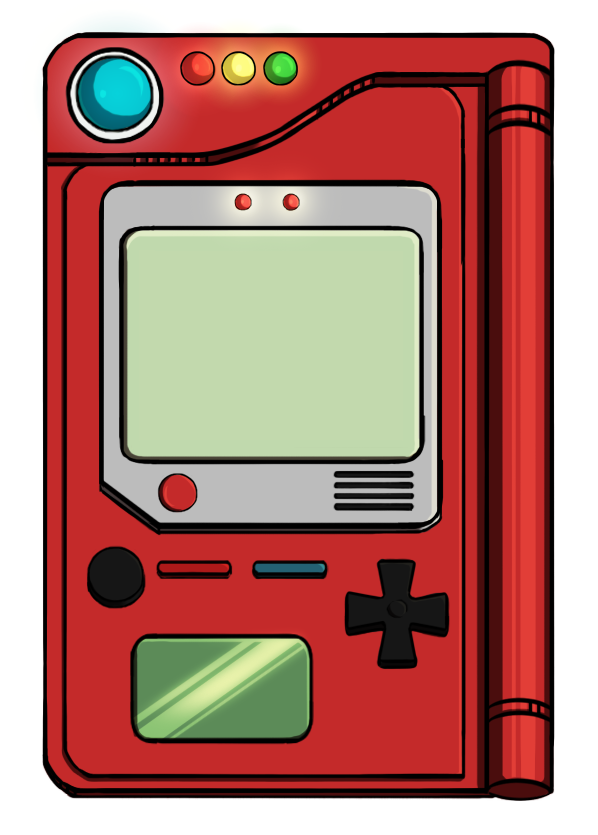
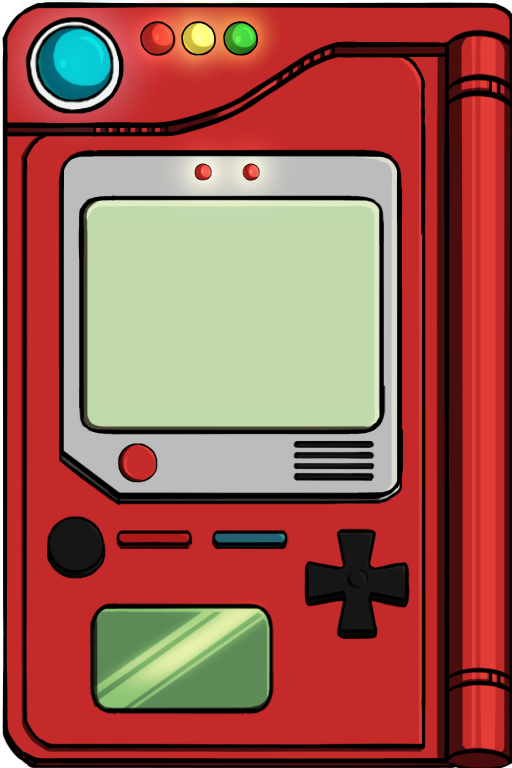
Correção de bugs

diff --git a/src/pages/View/index.js b/src/pages/View/index.js
@@ -4,6 +4,8 @@ import styles from './index.module.css';
 import api from "../../services/api";
 import Logo from "../../components/Logo";
 import PokedexImage from "../../components/PokedexImage";
+import Footer from "../../components/Footer";
+import Loading from "../../components/Loader";
 
 export default function View(){
     
@@ -11,16 +13,22 @@ export default function View(){
     const [data, setData] = useState([]);
     const {name} = useParams();
     const [isFlipped, setIsFlipped] = useState(false);
-
+    const [whosThatPokemon, setWhosThatPokemon] = useState("./missingno.png");
+    const [removeLoading, setRemoveLoading] = useState(false);
     
     useEffect(() => {
         const fetchData = async () => {
           const response = await api.get(`/pokemon/${name}`);
           const data = response.data;
           setData(data);
+          setRemoveLoading(true);
       
           if (data && data.sprites) {
-            setImageUrl(data.sprites.front_default);
+            if(data.sprites.front_default){
+              setImageUrl(data.sprites.front_default);
+            }else{
+              setWhosThatPokemon("/missingno.png");
+            }    
           }
         }
       
@@ -46,38 +54,50 @@ export default function View(){
         <div className={styles.mainDiv}>
           <div className={styles.imageContainer}>
             <img className={styles.pokedexImg} src={"/imgPoke.png"} alt="pokedex image" />
-            <img className={styles.innerImage} src={imageUrl} alt={`${data.name} sprite`} />
+            {!removeLoading && <Loading/>}           
+            {imageUrl ? (
+              <img className={styles.innerImage} src={imageUrl} alt={data.name} />
+            ) : (
+              <img  className={styles.innerImageWho} src={whosThatPokemon} alt={""}/>
+            )}
+            
+
             <div>
             <button className={styles.btnVoltar} onClick={(e) => changePhoto()}>Turn Image Here</button>
             </div>
           </div>
           <div className={styles.infoContainer}>
-              <p><strong> Name: </strong>{data.name}</p>
-              <p><strong> Height: </strong>{data.height*2.54} CM</p>
-              <p><strong> Weight: </strong> {(data.weight/2.205).toFixed(2)} KG</p>
-                {data.stats?.map((stat) => (
-                  <p key={stat.stat.name}>
-                    <strong>{stat.stat.name.charAt(0).toUpperCase() + stat.stat.name.slice(1)}:</strong> {stat.base_stat}
-                  </p>
-                ))}     
-              <p><strong> Ability:</strong></p>
-              <ul className={styles.list}>
-                {data.abilities?.map((ability) => (
-                  <li key={ability.ability.name}>
-                    {ability.ability.name}
-                  </li> 
-                ))}
-              </ul>
-              <p><strong> Type:</strong></p>
-              <ul className={styles.list}>
-                {data.types?.map((type) => (
-                  <li key={type.type.name}>
-                    {type.type.name}
-                  </li>
-                ))}
-              </ul>
-                
-              <Link className={styles.btnVoltar} to={'/'}>Back</Link>
+              <img  className={styles.pokedexImgOther} src={"/pokedex-other-img-copy.png"} alt="text side pokedex" />
+              <div className={styles.innerText}>
+                <p><strong> Name: </strong>{data.name}</p>
+                <p><strong> Height: </strong>{data.height*2.54} CM</p>
+                <p><strong> Weight: </strong> {(data.weight/2.205).toFixed(2)} KG</p>
+                  {data.stats?.map((stat) => (
+                    <p key={stat.stat.name}>
+                      <strong>{stat.stat.name.charAt(0).toUpperCase() + stat.stat.name.slice(1)}:</strong> {stat.base_stat}
+                    </p>
+                  ))}     
+                <p><strong> Ability:</strong></p>
+                <ul className={styles.list}>
+                  {data.abilities?.map((ability) => (
+                    <li key={ability.ability.name}>
+                      {ability.ability.name}
+                    </li> 
+                  ))}
+                </ul>
+                <p><strong> Type:</strong></p>
+                <ul className={styles.list}>
+                  {data.types?.map((type) => (
+                    <li key={type.type.name}>
+                      {type.type.name}
+                    </li>
+                  ))}
+                </ul>
+              </div>
+              <div>
+                <Link className={styles.btnVoltar} to={'/'}>Back</Link>
+              </div>
+              
           </div>
                 
         </div>

diff --git a/src/pages/View/index.module.css b/src/pages/View/index.module.css
@@ -13,28 +13,68 @@
 
 .pokedexImg {
   height: 450px;
+  margin: 0;
+  margin-bottom: 10%;
+  padding: 0;
 }
 
+
 .imageContainer {
-  flex: 0 0 60%;
+  flex: 0 0 50%;
   position: relative;
   max-width: fit-content;
+  margin-left: 0;
   
 }
 
 .innerImage {
   position: absolute;
-  top: 40%;
-  left: 49.3%;
+  top: 37%;
+  left: 49.1%;
   transform: translate(-50%, -50%);
   z-index: 1;
-  height: 150px;
+  height: 140px;
+}
+
+.innerImageWho {
+  position: absolute;
+  top: 38%;
+  left: 45.7%;
+  transform: translate(-50%, -50%);
+  z-index: 1;
+  height: 115px;
+  
 }
 
 .infoContainer {
   flex: 1;
   text-align: left;
   max-width: fit-content;
+  font-size: 10px;
+  position: relative;
+  margin-left: 0px;
+}
+
+
+.pokedexImgOther {
+  height: 450px;
+  margin: 0px;
+  margin-bottom: 10%;
+}
+
+.innerText{
+  position: absolute;
+  top: 32%;
+  right: -6%;
+  transform: translate(-50%, -50%);
+  z-index: 1;
+  height: 150px;
+  max-width:49%;
+}
+
+.innerText::after{
+  content: "\a";
+  white-space: pre;
 }
 
 .listStats{
@@ -43,17 +83,18 @@
 
 .btnVoltar{
   display: inline-block;
-    padding: 8px 20px;
-    font-size: 16px;
-    font-weight: bold;
-    text-align: center;
-    text-decoration: none;
-    background-color: rgb(255, 224, 49);
-    border: 2px solid rgb(255, 224, 49);
-    border-radius: 5px;
-    transition: all 0.3s ease;
-    margin: 2px;
-    font-family: Joystix;
+  padding: 5px 5px;
+  font-size: 16px;
+  font-weight: bold;
+  text-align: center;
+  text-decoration: none;
+  background-color: rgb(255, 224, 49);
+  border: 2px solid rgb(255, 224, 49);
+  border-radius: 5px;
+  transition: all 0.3s ease;
+  margin: 0;
+  font-family: Joystix;
+  color: rgba(76, 76, 220, 0.903);
 }
 
 .btnVoltar:hover {

diff --git a/src/components/Pagination/index.js b/src/components/Pagination/index.js
@@ -5,13 +5,22 @@ const Pagination = ({ pages, setCurrentPage, currentPage }) => {
   return (
     <div className={styles.pagination}>
       <button className={styles.paginationBtn}
+            onClick={() => currentPage >= 1 && setCurrentPage(currentPage == 1)}>First
+      </button>
+      <button className={styles.paginationBtn}
             onClick={() => setCurrentPage(currentPage - 1)}
-            disabled={currentPage === 0}>Anterior
+            disabled={currentPage === 0}>Previous
           </button>
           
+          {/*{Array.from(Array(pages), (pokemon, index) => {
+            return <button className={`${styles.paginationBtn} ${index === currentPage ? styles.active : ''}`} key={index} value={index} onClick={(e) => setCurrentPage(Number(e.target.value))}>{index + 1}</button>
+          })}*/}
+        
           <button className={styles.paginationBtn}
               onClick={() => setCurrentPage(currentPage + 1)}
-              disabled={currentPage === pages - 1}>Proximo
+              disabled={currentPage === pages - 1}>Next
+          </button>
+          <button  className={styles.paginationBtn} onClick={() => currentPage < pages - 1 ? setCurrentPage(pages - 1) : null}>Last
           </button>
     </div>
   );

diff --git a/src/pages/Home/index.js b/src/pages/Home/index.js
@@ -4,6 +4,7 @@ import styles from './index.module.css';
 import { Link } from "react-router-dom";
 import Logo from "../../components/Logo";
 import Pagination from "../../components/Pagination";
+import Footer from "../../components/Footer";
 
 export default function Home(props) {
 

diff --git a/src/components/Loader/index.js b/src/components/Loader/index.js
@@ -1,0 +1,9 @@
+import styles from './index.module.css'
+
+export default function Loading(){
+    return(
+        <div>
+            <img className={styles.loadingS} src="/loading6.gif" alt="loading" />
+        </div>
+    )
+}

diff --git a/src/pages/Home/index.module.css b/src/pages/Home/index.module.css
@@ -16,7 +16,7 @@
   display: inline-block;
   width: 120px; /* Largura fixa em pixels */
   padding: 8px 20px;
-  font-size: 16px;
+  font-size: 12px;
   font-weight: bold;
   text-align: center;
   text-decoration: none;

diff --git a/src/App.js b/src/App.js
@@ -14,7 +14,6 @@ function App() {
           <Route exact path="" element={<Home />} />
           <Route path='/view/:name' element={<View />} />
         </Routes>
-        <Footer/>
       </Router>
     </div>
   );

diff --git a/src/components/Loader/index.module.css b/src/components/Loader/index.module.css
@@ -1,0 +1,8 @@
+.loadingS {
+    position: absolute;
+    top: 38%;
+    left: 45.7%;
+    transform: translate(-50%, -50%);
+    z-index: 1;
+    height: 115px;
+  }

diff --git a/src/components/Pagination/index.module.css b/src/components/Pagination/index.module.css
@@ -17,3 +17,9 @@
   color: white;
   cursor: pointer;
 }
+
+.active {
+  background-color: rgba(76, 76, 220, 0.903);
+  border-color: white;
+  color: white;
+}
